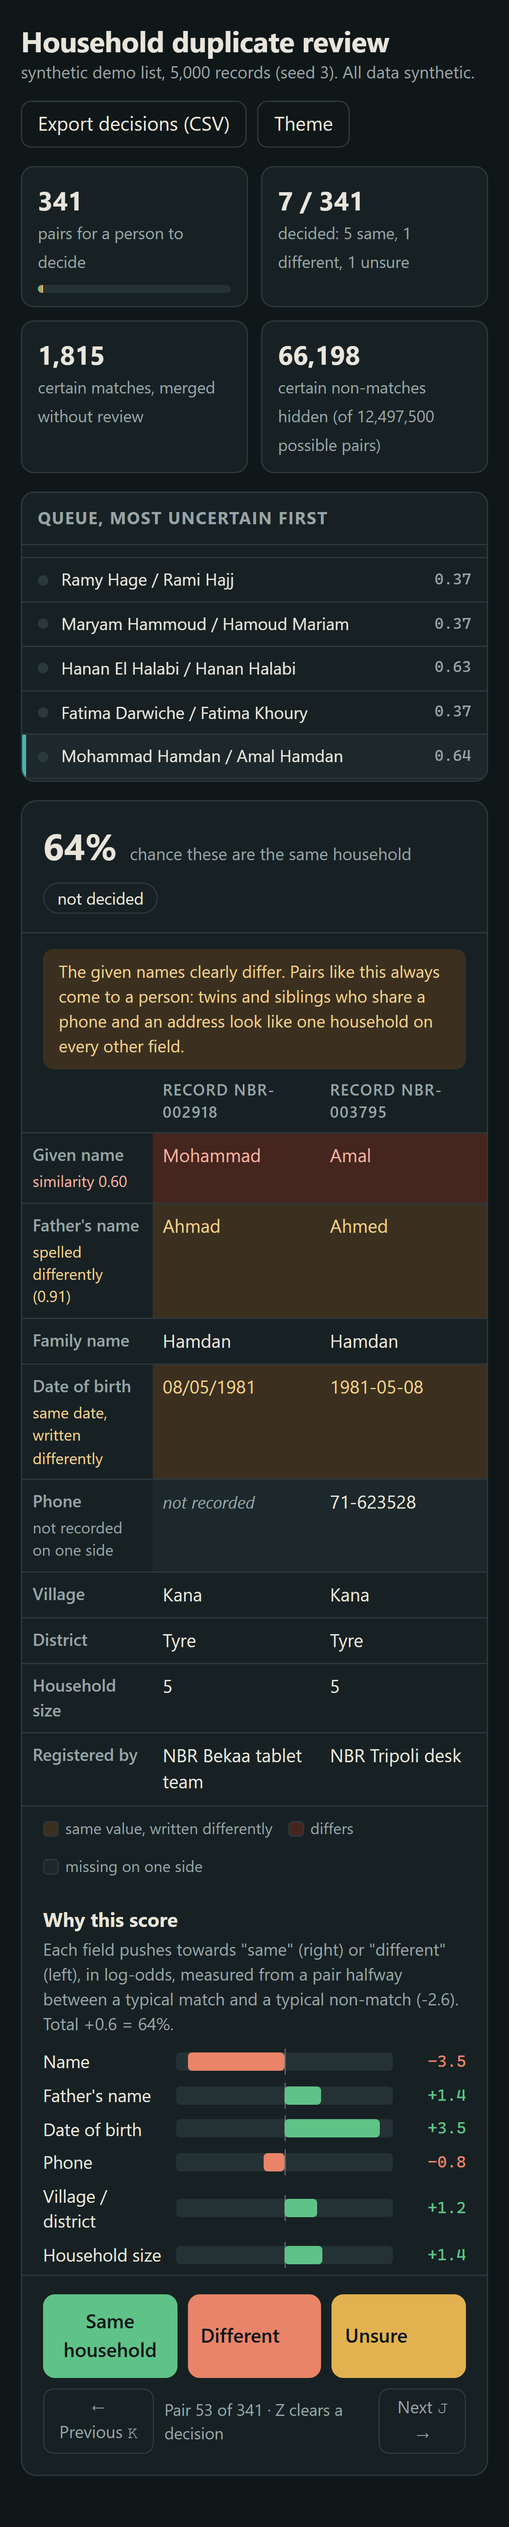
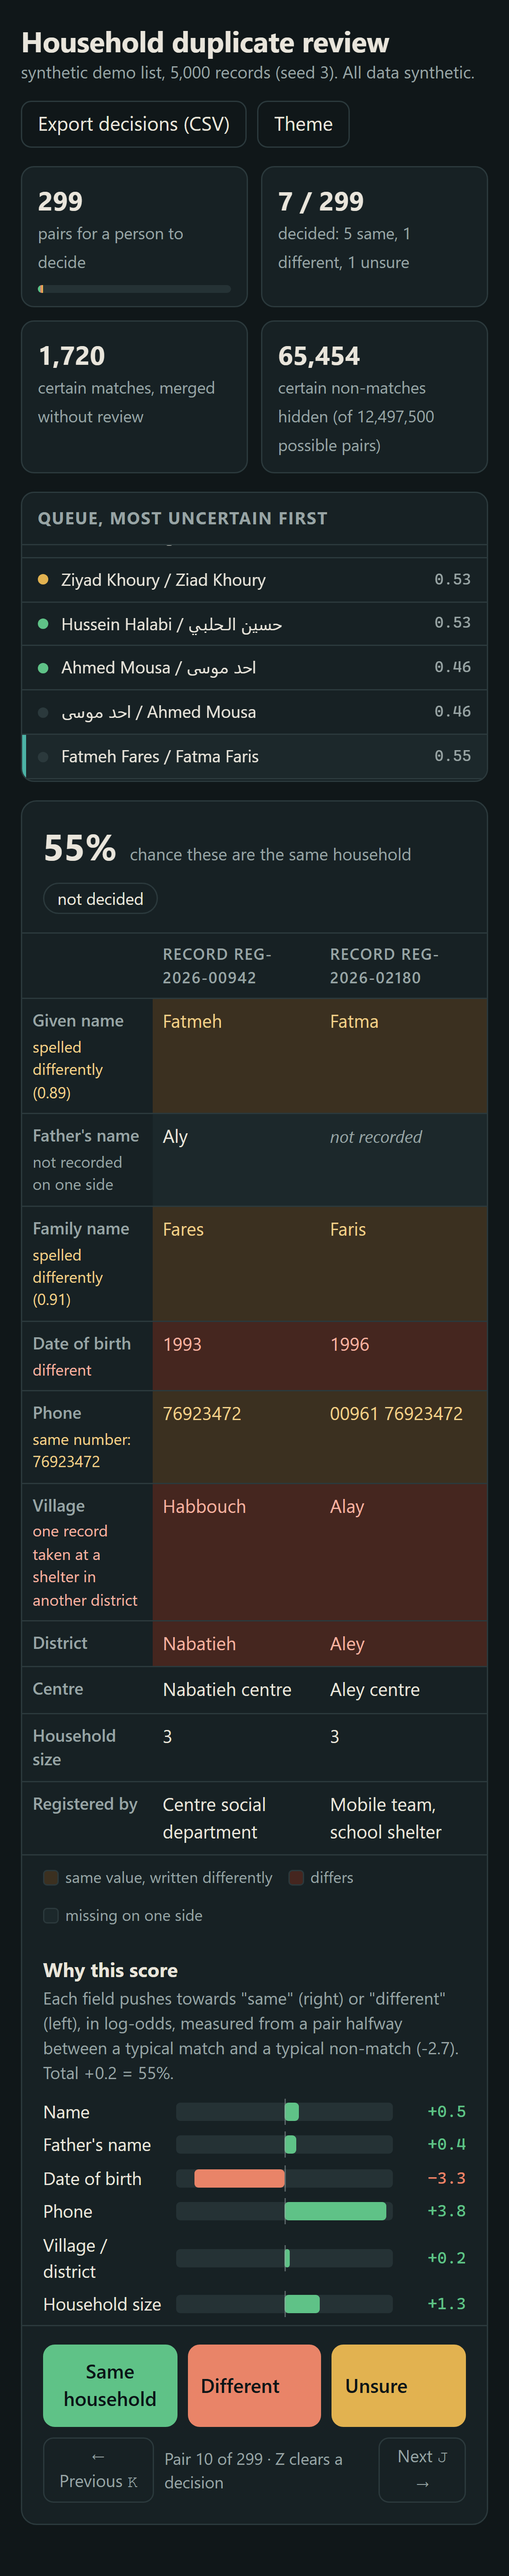
Rebase: README need in a distribution's words, old and new numbers, held-out method, new screenshots, CLAUDE.md

diff --git a/README.md b/README.md
@@ -2,18 +2,18 @@
 
 Finds the same family registered twice under different spellings, across Arabic and Latin script, and lets a reviewer confirm each match.
 
-All data in this repository is synthetic. The households, names, phone numbers and registration teams are generated by a seeded script for a fictional response by Northbridge Relief, a fictional NGO, in Lebanon. Nothing here touches real people.
+All data in this repository is synthetic. A seeded script invents the households, names, phone numbers and registrations, set in the work of a humanitarian organization in Lebanon during an emergency response. Nothing here touches real people.
 
-![Review screen: an Arabic record and a Latin record side by side, with the reasons for the score](docs/review-screen.png)
+![Review screen: an Arabic record and a Latin record of the same household side by side, with the reasons for the score](docs/review-screen.png)
 
 <p>
-<img src="docs/review-twins-dark.png" alt="Dark theme: twins held for review because their given names differ" width="64%">
+<img src="docs/review-shelter-dark.png" alt="Dark theme: a household registered at its home centre in Nabatieh and again at a school shelter in Aley" width="64%">
 <img src="docs/review-mobile-dark.png" alt="Phone width, dark theme" width="20%">
 </p>
 
 ## The need
 
-In an emergency response, households are registered by different teams, on paper and on tablets, in Arabic and in several Latin transliterations. The same family appears as "Mohammad Khoury", "Mohamed El Khouri" and "محمد الخوري". Duplicates mean one family is assisted twice and another not at all. Exact matching misses them, and a person cannot compare ten thousand rows by hand.
+When people are displaced, we register families wherever we find them. The social department registers them at our centre in their district. A mobile team registers them again at a school shelter two districts away. A volunteer writes a paper list at a distribution point, and someone types it up a week later. The same father is "Mohammad Khoury" on one list, "Mohamed El Khouri" on another and "محمد الخوري" on the third, with a different village because the family has moved. When we miss that, one family gets two food parcels and another family gets none. Nobody can compare ten thousand rows by eye before the next distribution.
 
 ## Try it
 
@@ -24,9 +24,9 @@ pip install -e .
 dedupe serve                       # review screen on http://127.0.0.1:8108
 ```
 
-`dedupe serve` builds a 5,000-record synthetic list, scores it and opens the queue (about 10 seconds). Keys: `S` same, `D` different, `U` unsure, `J`/`K` next and previous, `Z` clears a decision. Decisions are saved to `decisions.json` after every click, so a power cut loses nothing, and "Export decisions" downloads them as CSV.
+`dedupe serve` builds a 5,000-record synthetic list, scores it and opens the queue (a few seconds). Keys: `S` same, `D` different, `U` unsure, `J`/`K` next and previous, `Z` clears a decision. Decisions are saved to `decisions.json` after every click, so a power cut loses nothing. "Export decisions" downloads them as CSV.
 
-On your own CSV (columns `record_id, given_name, father_name, family_name, date_of_birth, phone, village, district, household_size, team`):
+On your own CSV (columns `record_id, given_name, father_name, family_name, date_of_birth, phone, village, district, centre, household_size, team`):
 
 ```text
 $ dedupe generate --n 10000 --out records.csv
@@ -34,85 +34,81 @@ Wrote 10000 synthetic records to records.csv
 
 $ dedupe run records.csv --out matches.csv
 Read 10,000 records
-Compared 272,369 candidate pairs out of 49,995,000 possible
-  certain matches:     3,623
-  for a reviewer:      935
-  certain non-matches: 267,811 (not written)
-Households with more than one record: 2,071
-Wrote matches.csv and matches_households.csv in 11.0 s
+Compared 266,578 candidate pairs out of 49,995,000 possible
+  certain matches:     3,591
+  for a reviewer:      805
+  certain non-matches: 262,182 (not written)
+Households with more than one record: 2,043
+Wrote matches.csv and matches_households.csv in 8.5 s
 ```
 
-`dedupe serve records.csv` opens that list in the review screen; `dedupe bench` reproduces the numbers below. If your system blocks the `dedupe` launcher, `python -m beneficiary_dedupe <command>` does the same.
+`dedupe serve records.csv` opens that list in the review screen; `dedupe bench` reproduces the numbers below. If your system blocks the `dedupe` launcher, `python -m beneficiary_dedupe <command>` does the same. More output: [docs/sample-output.txt](docs/sample-output.txt).
 
 ## How it works
 
 ```
 records ─► normalise ─► block ─► compare ─► score ─► cluster ─► review queue
-           (3 keys)    (4 passes) (19 features) (logistic   (guarded)   (uncertain
+           (3 keys)    (4 passes) (20 features) (logistic   (guarded)   (uncertain
                                                 regression)              pairs only)
 ```
 
 | Step | What it does |
 |---|---|
-| Normalise | Arabic: alef and hamza forms (أ إ آ → ا), taa marbuta (ة → ه), alef maqsura (ى → ي), diacritics, tatweel, the article ال. Latin: accents, `El`/`Al` prefixes, punctuation. Dates in four formats and Arabic-Indic digits. Lebanese phones in any format to one national number (`+961 3 123 456`, `03123456`, `٠٣١٢٣٤٥٦` all give `3123456`). |
-| Shared key | A consonant skeleton both scripts map onto: `Mohamed El Khouri` and `محمد الخوري` both give `mhmd` + `Xr`. Vowels are dropped, the article is removed, and letters that transliterations confuse (`k/q`, `ch/sh`, `g/j`) map to one class. |
-| Phonetic key | A coarser code on top of the skeleton for blocking. On 191 pairs of Latin spellings of the same name, Soundex agrees on 72.8% and this key on 99.5%, because Soundex keeps the first letter as written (`Chehab` C110, `Shehab` S110) and reads `El Khoury` as starting with E. |
-| Blocking | Four passes (both names in either order; one name plus birth year; phone; family name plus village). 10,000 records give 276,688 pairs to compare instead of 49,995,000, and blocking keeps 99.82% of the true pairs. The benchmark prints how many it drops. |
-| Features | Given and family name similarity, aligned the better of two ways (so a swapped name order still lines up). Across scripts, a weighted alignment where a Latin short vowel costs almost nothing but an Arabic long vowel must be matched, which separates Hassan from Hussein (حسن / حسين) and Mohammad from Mahmoud. Date of birth: exact, day and month swapped, year only, same year, one year apart. Phone, village, district, household size. |
+| Normalise | Arabic: alef and hamza forms (أ إ آ → ا), taa marbuta (ة → ه), alef maqsura (ى → ي), diacritics, tatweel, the article ال. Latin: accents, `El`/`Al` prefixes, punctuation. Dates in four formats and Arabic-Indic digits. Lebanese phones in any format become one national number (`+961 3 123 456`, `03123456` and `٠٣١٢٣٤٥٦` all give `3123456`). |
+| Shared key | A consonant skeleton that both scripts map onto: `Mohamed El Khouri` and `محمد الخوري` both give `mhmd` + `Xr`. Vowels are dropped, the article is removed, and letters that transliterations confuse (`k/q`, `ch/sh`, `g/j`) map to one class. |
+| Phonetic key | A coarser code on top of the skeleton, used for blocking. On 191 pairs of Latin spellings of the same name, Soundex agrees on 72.8% and this key on 99.5%. Soundex keeps the first letter as written (`Chehab` C110, `Shehab` S110) and reads `El Khoury` as starting with E. |
+| Blocking | Four passes: both names in either order; one name plus birth year; phone; family name plus village. 10,000 records give about 255,000 pairs to compare instead of 49,995,000. The benchmark prints how many true pairs blocking drops. |
+| Features | Given and family name similarity, aligned the better of two ways, so a swapped name order still lines up. Across scripts, a weighted alignment where a Latin short vowel costs almost nothing but an Arabic long vowel must be matched. This separates Hassan from Hussein (حسن / حسين) and Mohammad from Mahmoud. Date of birth: exact, day and month swapped, year only, same year, one year apart. Phone, village, district, household size. **Shelter registration:** when one record was taken by a team at a shelter (the `team` or `centre` column says "shelter") and the districts differ, a different village is expected and does not count against the match. |
 | Score | Logistic regression fitted on a training set made with its own seed. Each pair's log-odds split exactly into one number per field, measured from a reference pair halfway between a typical match and a typical non-match. The bars on the screen are the model itself, not a story told about it. |
-| Bands | Thresholds chosen on training pairs: below 0.033 is a certain non-match, above 0.737 a certain match. Both are counted and kept out of the reviewer's way. Policy rule: a pair whose given names clearly differ is never accepted without a person. |
-| Cluster | Strongest pairs first. Two groups merge only if every pair across them scores at least 0.02 (pairs blocking never compared are scored on demand), groups stay at 6 records or fewer, and a held pair is never the link that merges two groups. |
+| Bands | Thresholds chosen on training pairs: at or below 0.047 is a certain non-match, at or above 0.707 a certain match. Both are counted and kept out of the reviewer's way. Policy rule: a pair whose given names clearly differ is never accepted without a person. |
+| Cluster | Strongest pairs first. Two groups merge only if every pair across them scores at least 0.02, and pairs that blocking never compared are scored on demand. Groups stay at 6 records or fewer, and a held pair is never the link that merges two groups. |
 
 ## Results
 
-From `dedupe bench` on a held-out set of 10,000 synthetic records (seed 2). The model was trained on seed 1, so these are different households. Full output: [docs/benchmark.txt](docs/benchmark.txt).
+**How the held-out set was kept honest.** After the generator was re-set in this scenario, the held-out set (10,000 records, seed 2) and its labels were written to [data/heldout.csv](data/heldout.csv) and committed before any rule changed. The shelter feature was then designed and checked only on the training seed (1) and a separate development seed (4). The model was retrained on seed 1, and the held-out file was measured once at the end. A test fails if the generator ever drifts from the frozen file. Full output: [docs/benchmark.txt](docs/benchmark.txt).
 
 ```text
-True duplicate pairs: 3858  (Arabic-to-Latin: 1513)
+True duplicate pairs: 3854  (Arabic-to-Latin: 1509, home centre to shelter: 671)
 
-method                                       precision  recall     F1  AR-LA recall
-Exact name + date of birth                       1.000   0.029  0.056         0.000
-Levenshtein on full name >= 0.84                 0.295   0.272  0.283         0.000
-This pipeline, pairs scored >= 0.5               0.989   0.968  0.979         0.957
-This pipeline, after clustering                  0.992   0.971  0.981         0.954
+method                                       precision  recall     F1  AR-LA rec  shelter rec
+Exact name + date of birth                       1.000   0.028  0.054      0.000        0.013
+Levenshtein on full name >= 0.84                 0.297   0.275  0.285      0.000        0.255
+This pipeline, pairs scored >= 0.5               0.986   0.973  0.979      0.964        0.964
+This pipeline, after clustering                  0.993   0.972  0.983      0.954        0.966
 ```
 
 The Levenshtein threshold (0.84) was tuned on the training set for its best F1, over all 50 million pairs with no blocking.
 
-**Reviewer workload.** 3,626 pairs are certain matches (precision 0.999) and 272,196 are certain non-matches, so 866 pairs out of 276,688 go to a person. If the reviewer decides that queue correctly, pair recall reaches 0.992 at precision 0.999. 24 true pairs sit in the certain non-match band.
+**Displaced households.** Of 671 true pairs between a home-centre record and a shelter record, 621 are certain matches, 47 go to the reviewer and 3 fall in the certain non-match band. 96.6% end up in one household automatically. On the development seed, the shelter feature raised this from 92.8% to 95.6%.
 
-```text
-Reviewer workload: pairs a person must look at to reach a pair recall
-  recall     model queue   Levenshtein order   unranked candidates
-  0.90                 0         not reached               249,019
-  0.95                58         not reached               262,854
-  0.98               239         not reached               271,154
-```
+**New numbers next to the old ones.** The old column is the first version of this project ([docs/benchmark-before-rebase.txt](docs/benchmark-before-rebase.txt)). It used a generator with no centres and no shelter registrations. The two held-out sets are different data, so this is not a like-for-like comparison.
 
-**Hard negatives** (different households generated to look alike), pairs wrongly put in one household:
+| Held-out measure | Before | Now |
+|---|---|---|
+| Precision / recall / F1 after clustering | 0.992 / 0.971 / 0.981 | 0.993 / 0.972 / 0.983 |
+| Arabic-to-Latin recall | 0.954 | 0.954 |
+| Home centre to shelter recall | not measured | 0.966 |
+| Blocking recall (candidate pairs) | 0.9982 (276,688) | 1.0000 (254,975) |
+| Pairs in the review queue | 866 | 743 |
+| Pairs to review for 95% / 98% recall | 58 / 239 | 9 / 198 |
+| After a correct review of the queue: precision / recall | 0.999 / 0.992 | 0.997 / 0.995 |
+| Twins wrongly merged | 2 of 126 | 10 of 135 |
+| Siblings / namesakes wrongly merged | 4 of 621 / 0 of 534 | 3 of 653 / 6 of 472 |
+| Time for 10,000 records | 14.1 s | 3.7 s |
 
-```text
-  neg:namesake                    0 of  534   same name, same village, other father
-  neg:namesake_same_father        1 of  159   cousins with the same three names
-  neg:sibling                     4 of  621
-  neg:twin                        2 of  126
-```
-
-**Chaining guard.** Plain connected components reach a largest cluster of 7 records at precision 0.978. With the guard and the given-name hold, the largest cluster has 4 records and precision is 0.992, for 1.2 points of recall.
-
-**Speed.** Processing all 10,000 records (prepare, block, compare, score, cluster) took 14.1 s in the run quoted above: Windows laptop, Python 3.12, one process. Other jobs shared the machine: over the last three benchmark runs the same step took 8.5, 10.6 and 14.1 s.
+**Speed.** Run on a Windows laptop with Python 3.12 in one process. Times vary with whatever else the machine is doing: the same 10,000-record step took between 3.7 and 14.1 s across runs.
 
 ## Where it fails
 
 Real errors from the held-out run:
 
-- **Brothers who share a phone.** `Hussein | Omar | Masri | 22/3/1964 | 78102469 | Khiam` was merged with `Hassan | Omar | Al-Masri | 1968-08-02 | 78102469 | El Khiam` (p = 0.858). These are two brothers with the same father, phone and village. In Latin script, Hussein and Hassan score above the "clearly different" line, so the hold does not apply.
-- **Common name, year only.** `Mohammad | - | Hamdan | 14/3/1971` and `Mohammad | Abdullah | Hamdan | 1971` are two different men in the same village (spelled Bebnine and Bibnin), merged at p = 0.752. With the father's name missing on one side and only a year on the other, there is little left to tell them apart.
-- **Typos in the given name across scripts.** `اممد | رامي | طالب` (a typo of احمد) against `Ahmed | Ramy | Talib` scores 0.997, but the given names fall under the "clearly different" line. The pair goes to the review queue instead of being merged automatically. This is the price of the twin rule: automatic recall drops from 0.979 to 0.971.
+- **Twins, and a short name inside a long one.** Twin brothers `Waleed | Walid | Younis` and `Ali | Waleed | Younis` were born the same day and share a phone and a village. They were put in one household (p = 1.000). The twin rule should have held the pair, but "Ali" scores 0.87 against "Waleed": Jaro-Winkler finds a, l, i in order inside "walid", so the names do not count as clearly different. Twins went from 2 of 126 to 10 of 135 pairs merged, the largest regression. I found this on the held-out set and left the rule unchanged, since fixing it there would be tuning on the test.
+- **An estimated age that lands on a namesake.** `Abas | Aly | Hamdan | 06/11/1975 | Dures` is a different man from `Abbas | Ali | Hamdan | 12/11/1972 | Douris`. The second man was registered again without papers, and the registrar guessed `1975`. That record matches the first man on every field (p = 0.722), and his household was merged into the other.
+- **Displacement plus two other changes.** `هدي | خالد | جابر | 26/6/1967 | Saida shelter` against `Houda | Khaled | Jaber | 26/6/1966 | Qana`: the village, the birth year and the phone all changed, and the given name was written with ya instead of alef maqsura. It scored 0.002 and was hidden as a certain non-match. Three shelter pairs are lost this way.
+- **Typos in the given name across scripts.** `محود | رامي | درويش` (a typo of محمود) against `Mahmood | Rami | Darwish` scores 0.998. But the given names fall under the "clearly different" line, so the pair goes to the queue instead of being merged. This is the price of the twin rule.
 - **French spellings with silent letters.** `Georges` keeps its final s in the consonant key, so it does not share a key with جورج (`George` does).
-- **Same consonants, different long vowels.** The shared key cannot tell محمد from محمود or Hassan from Hussein. The vowel-aware score narrows the gap (Mahmoud against محمد scores 0.91, Mohammad 0.96) but does not close it.
-- **Blocking drops 7 of 3,858 true pairs** (0.18%). These are records where the name, birth year, phone and village all changed at once.
-- **The data is synthetic.** The model learned this generator's error rates. On a real list, the weights and the two thresholds should be refitted on a few hundred reviewed pairs before the certain-match band is trusted.
+- **Same consonants, different long vowels.** The shared key cannot tell محمد from محمود, or Hassan from Hussein. The vowel-aware score narrows the gap but does not close it.
+- **The data is synthetic.** The model learned this generator's error rates, and the shelter feature relies on the team or centre column saying "shelter". On a real list, the weights and both thresholds should be refitted on a few hundred reviewed pairs before the certain-match band is trusted.
 
 ## What I would add next
 
@@ -122,7 +118,7 @@ Real errors from the held-out run:
 
 ## Layout
 
-`src/beneficiary_dedupe/`: `generate.py` (synthetic data), `normalize.py` and `similarity.py` (keys and name similarity), `blocking.py`, `features.py`, `model.py` (with `model.json`, the trained weights), `cluster.py`, `pipeline.py`, `app.py` and `static/index.html` (review screen), `bench.py`, `cli.py`. Tests in `tests/` (`pytest`).
+`src/beneficiary_dedupe/`: `generate.py` and `names.py` (synthetic data), `normalize.py` and `similarity.py` (keys and name similarity), `blocking.py`, `features.py`, `model.py` (with `model.json`, the trained weights), `cluster.py`, `pipeline.py`, `app.py` and `static/index.html` (review screen), `bench.py`, `cli.py`. Frozen held-out set in `data/`. Tests in `tests/` (`pytest`).
 
 ## Licence
 

diff --git a/CLAUDE.md b/CLAUDE.md
@@ -1,35 +1,40 @@
 # beneficiary-dedupe
 
 Finds duplicate household registrations across Arabic and Latin spellings, with
-a review screen (FastAPI, port 8108). All data is synthetic (seeded generator).
+a review screen (FastAPI, port 8108). Setting: a humanitarian organization in
+Lebanon (never named) registering households at its district centres, at
+distribution points and at school shelters after displacement. All data is
+synthetic (seeded generator). The repo is public.
 
 ## Run and test
 
 - `python -m venv .venv`, `pip install -e .[dev]`
 - `dedupe serve` (or `python -m beneficiary_dedupe serve`): review screen on 8108
 - `dedupe run records.csv --out matches.csv`, `dedupe generate`, `dedupe bench`
-- `dedupe train` refits `src/beneficiary_dedupe/model.json` (seed 1). Rerun it
+- `dedupe train` refits `src/beneficiary_dedupe/model.json` on seed 1. Rerun it
   whenever the feature list in `features.py` changes; `Model.load` refuses a
-  stale file. Then rerun `dedupe bench` and update README numbers and
-  `docs/benchmark.txt` from its real output.
-- `pytest`: 81 tests, about 10 s.
+  stale file.
+- `pytest`: 84 tests, about 10 s.
 
 ## Layout
 
-- `normalize.py`: Arabic/Latin normalisation, `skeleton` (shared key),
-  `phonetic` (blocking key), dates, phones. `similarity.py`: vowel-aware
-  cross-script name similarity.
+- `names.py` (names, villages, centres, teams), `generate.py` (duplicates,
+  displaced households re-registered at shelters, hard negatives).
+- `normalize.py`: normalisation, `skeleton` (shared key), `phonetic`
+  (blocking key), dates, phones. `similarity.py`: cross-script name similarity.
 - `blocking.py` -> `features.py` -> `model.py` (logistic regression, per-field
-  contributions from a reference pair, review bands) -> `cluster.py` (chaining
-  guard, hold set) -> `pipeline.py`.
-- `app.py` + `static/index.html`: review screen (vanilla JS, no CDN).
-- `bench.py`: held-out benchmark (seed 2). Demo list uses seed 3.
+  contributions, review bands) -> `cluster.py` (chaining guard, hold set) ->
+  `pipeline.py`. `app.py` + `static/index.html`: review screen (no CDN).
+- `bench.py` reads the frozen held-out file `data/heldout.csv`.
 
-## Quirks
+## Rules and quirks
 
-- Seeds: train 1, test 2, demo 3. Never benchmark on seed 1.
+- Seeds: train 1, held-out 2 (frozen in `data/heldout.csv`), development 4,
+  demo 3. Design and tune only on 1 and 4. Measure 2 once, at the end. If the
+  generator changes, regenerate `data/heldout.csv` BEFORE any rule change
+  (a test checks the file matches the generator).
 - Pairs whose given names clearly differ are never auto-accepted or used as a
   merge link (twin policy in `Model.band` and `cluster(hold=...)`).
-- On Windows with Application Control, the `dedupe.exe` launcher may be
-  blocked; use `python -m beneficiary_dedupe`.
-- Screenshots: `#pair-N` in the URL opens queue item N.
+- `shelter_elsewhere` looks for "shelter" in the team or centre column.
+- Blocked `dedupe.exe` on Windows: use `python -m beneficiary_dedupe`.
+  Screenshots: `#pair-N` in the URL opens queue item N.
